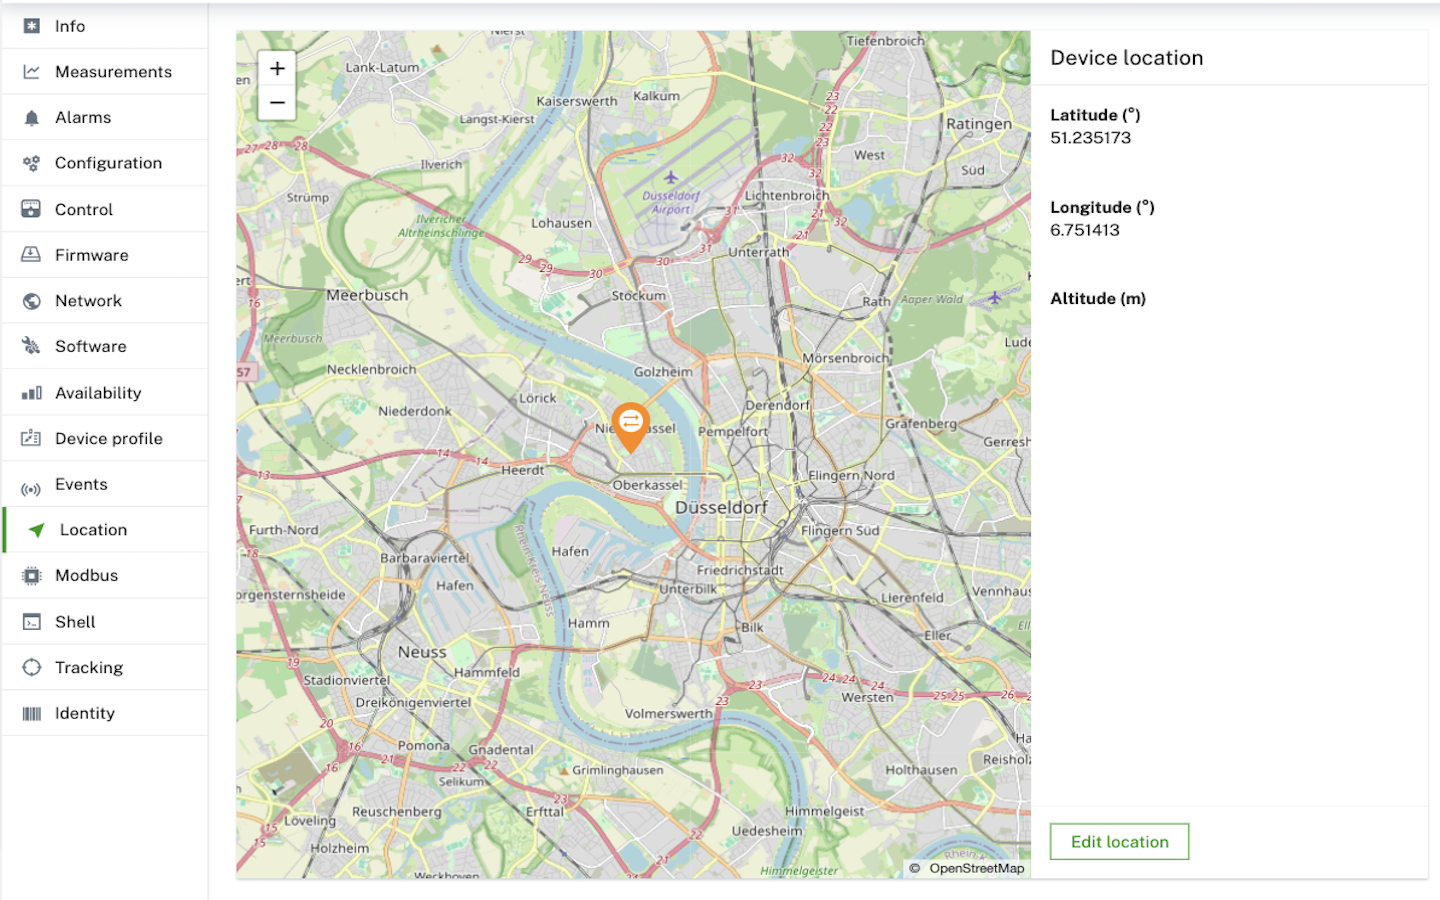
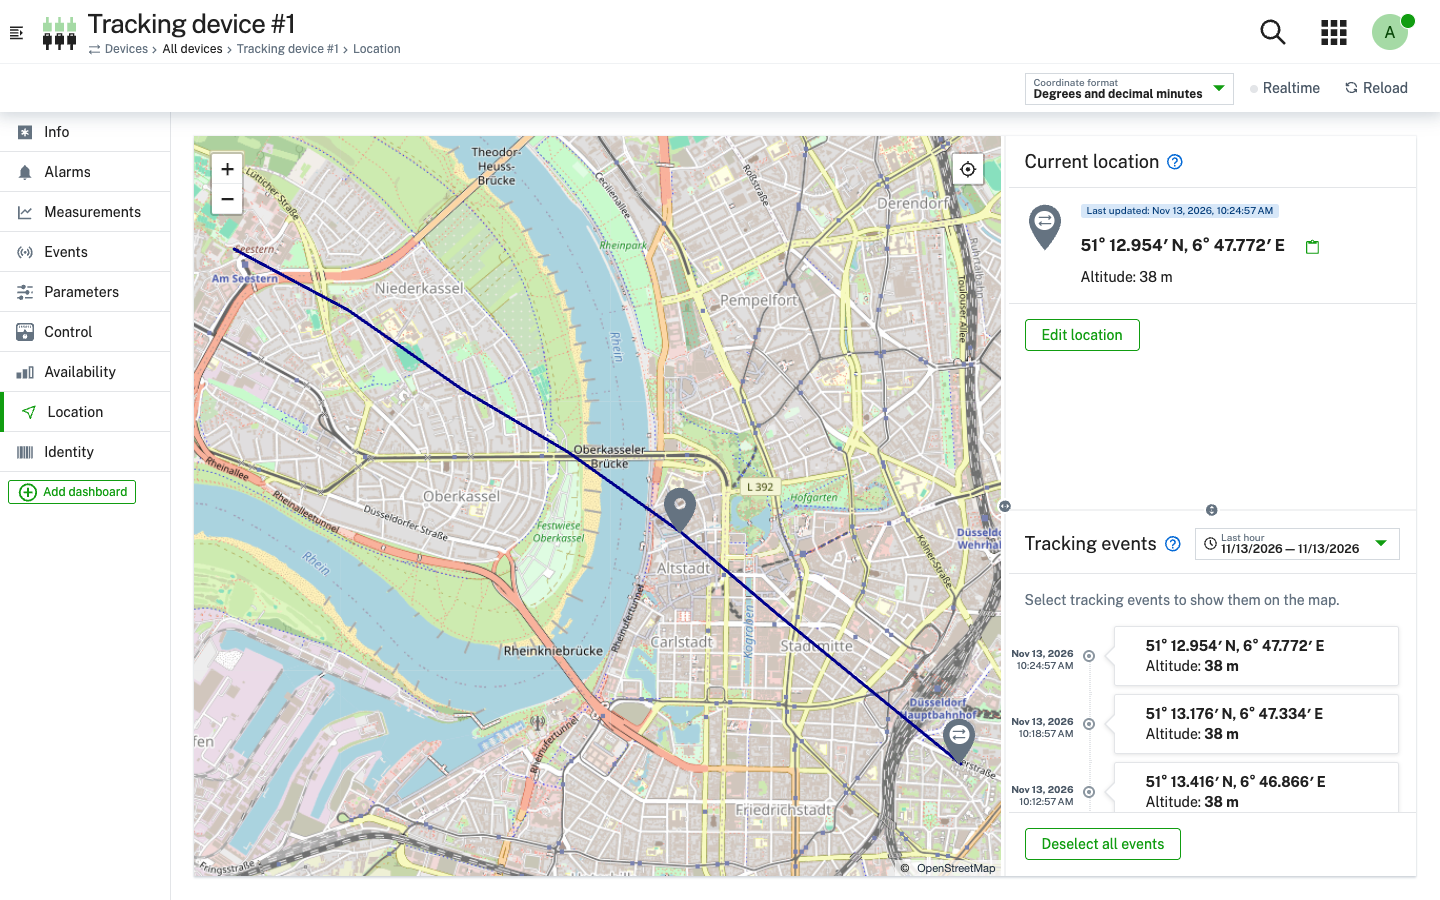
docs(device-management): [DM-7583] Update the Location tab screenshot and describe the events and popups

diff --git a/content/device-management-application/viewing-device-details.md b/content/device-management-application/viewing-device-details.md
@@ -187,11 +187,13 @@ If a device has no location yet, click **More...** at the right of the top menu 
 
 **Tracking events**
 
-If the device has sent location update events, the **Tracking events** list next to the map shows the events of the selected time range, with the newest event first. The map shows the path of the device during this time range as a line.
+If the device has sent location update events, the **Tracking events** list next to the map shows the events of the selected time range, with the newest event first. Each event shows its date and time, its coordinates, and its altitude. The map shows the path of the device during this time range as a line.
 
 * To select another time range, use the dropdown list above the events, for example **Last day**. To specify a time range, select **Custom**. A custom time range cannot end in the future.
 * To show the position of an event on the map, click the event. To remove these markers again, click **Deselect all events**.
 * To hide or show the path, click the device marker on the map and turn **Show track** off or on.
+
+Click a marker on the map to see its position, altitude, and time. The popup of the device marker also shows the alarms of the device per severity and its connection status.
 
 By default, the tab does not show new location updates automatically. Click **Realtime** in the top menu bar to show new location updates as they arrive, or click **Reload** to update the tracking events and the path.
 
